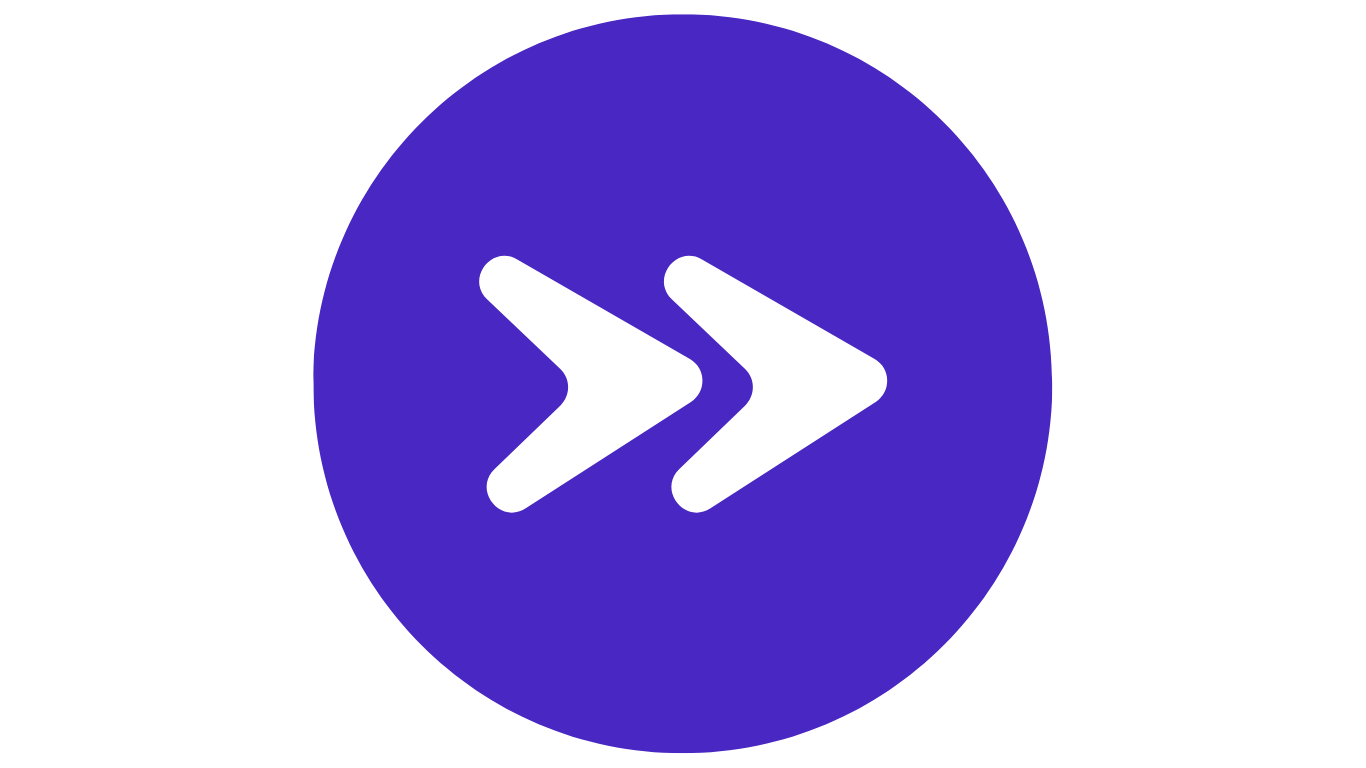
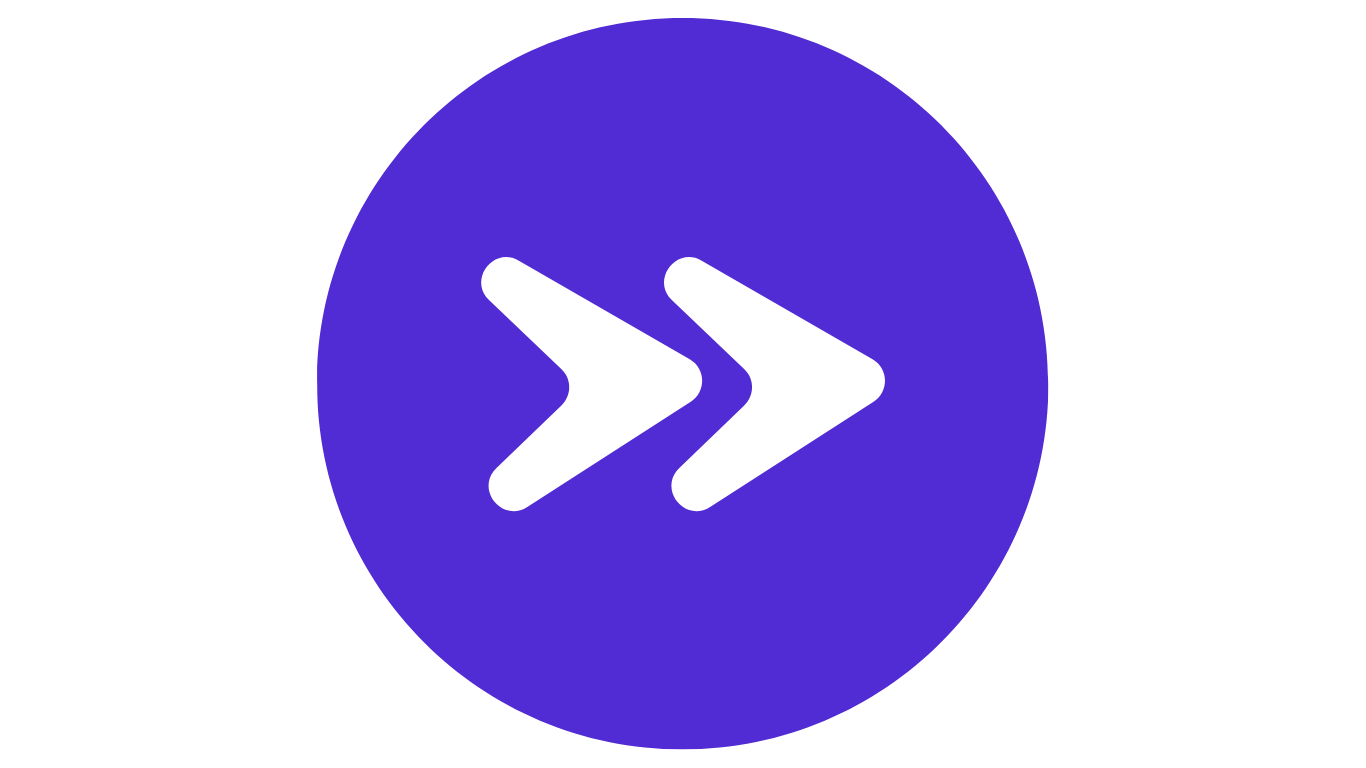
nueva pagina y actualizacion de iconos

diff --git a/AppShell.xaml b/AppShell.xaml
@@ -49,6 +49,9 @@
     <FlyoutItem Title="Aceptacion" Icon="aceptar.png" IsVisible="{Binding MostrarAceptacion}">
         <ShellContent Route="Aceptar" ContentTemplate="{DataTemplate local:Views.AceptarPage}" />
     </FlyoutItem>
+    <FlyoutItem Title="Estadistica" Icon="estadistica.png" IsVisible="{Binding MostrarAceptacion}">
+        <ShellContent Route="Estadistica" ContentTemplate="{DataTemplate local:Views.EstadisticaPage}" />
+    </FlyoutItem>
 
     <Shell.FlyoutFooter>
         <StackLayout Padding="20" VerticalOptions="CenterAndExpand">

diff --git a/Views/EstadisticaPage.xaml b/Views/EstadisticaPage.xaml
@@ -4,7 +4,7 @@
              x:Class="Referidos.Views.EstadisticaPage"
              xmlns:viewmodels="clr-namespace:Referidos.ViewModels"
              x:DataType="viewmodels:EstadisticaViewModel"
-             Title="EstadisticaPage">
+             Title="Estadisticas">
     <VerticalStackLayout>
         <Label 
             Text="Welcome to .NET MAUI!"
